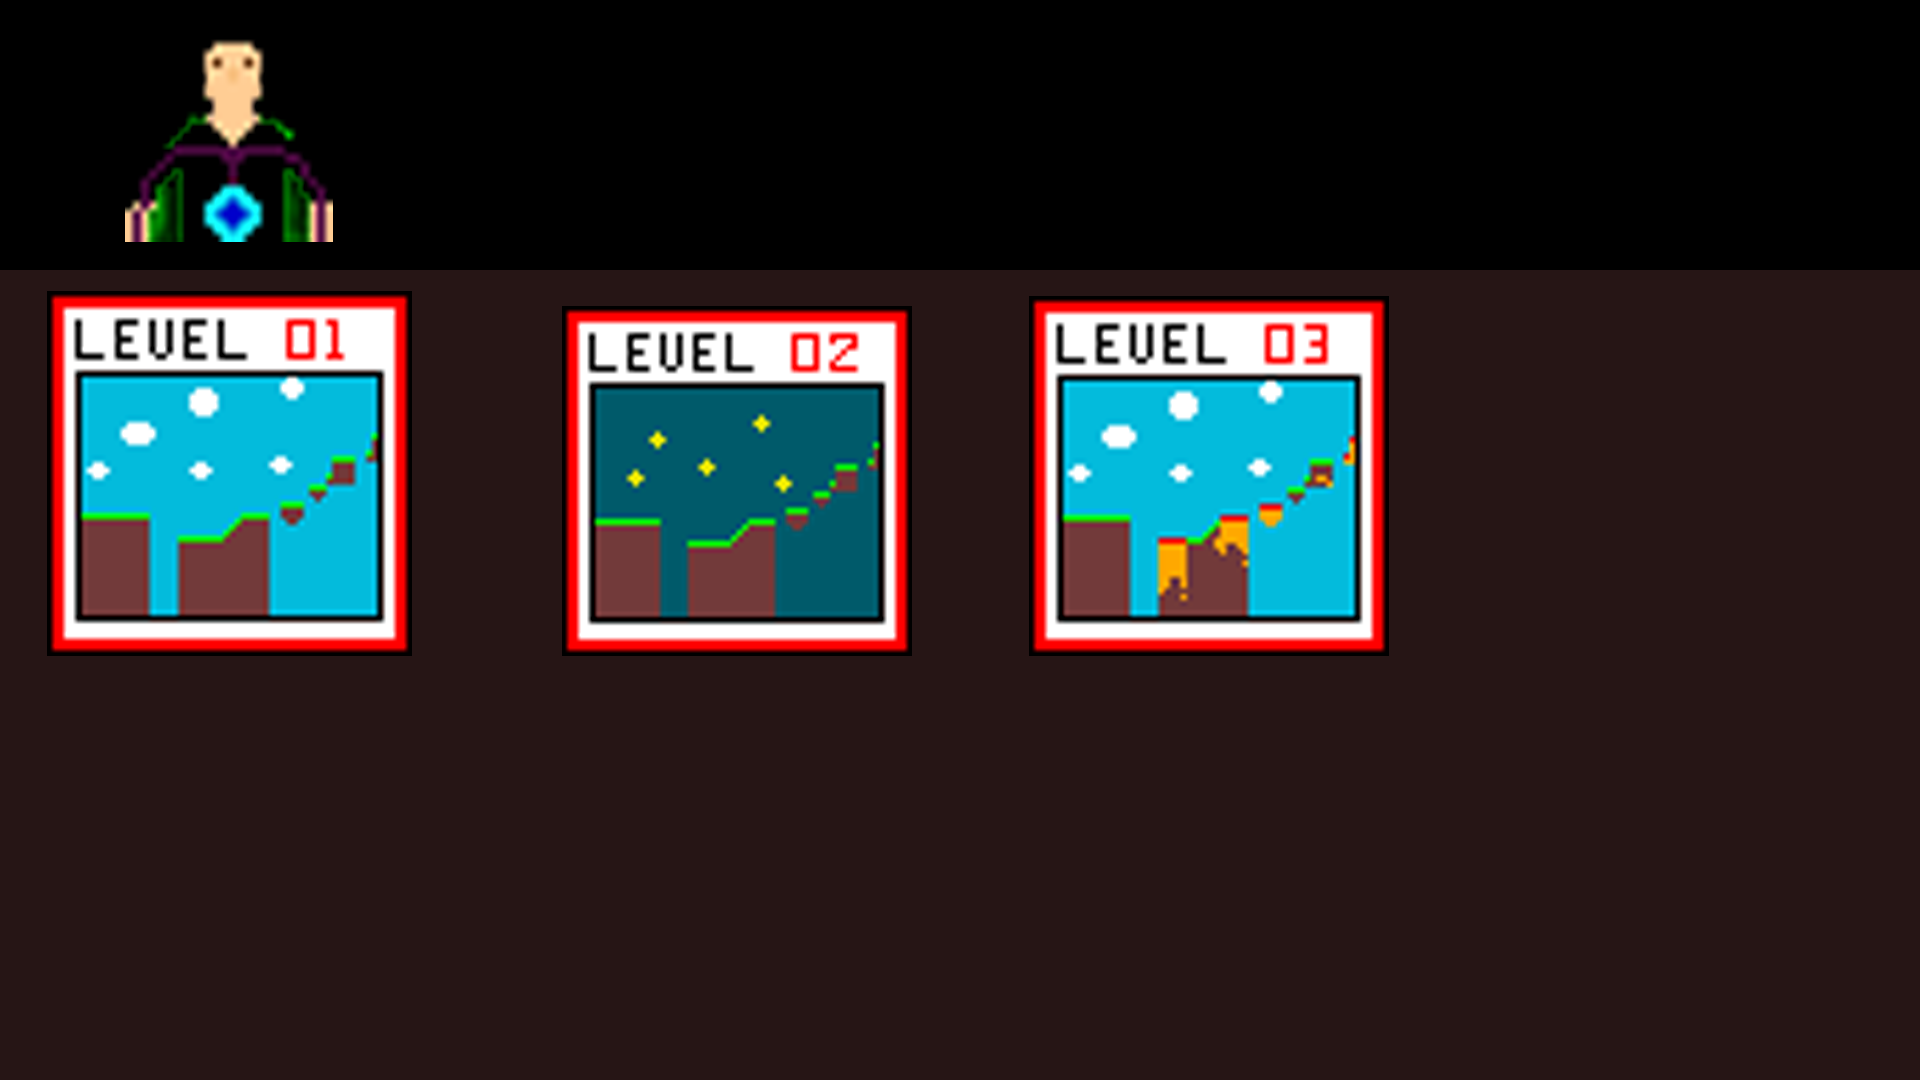
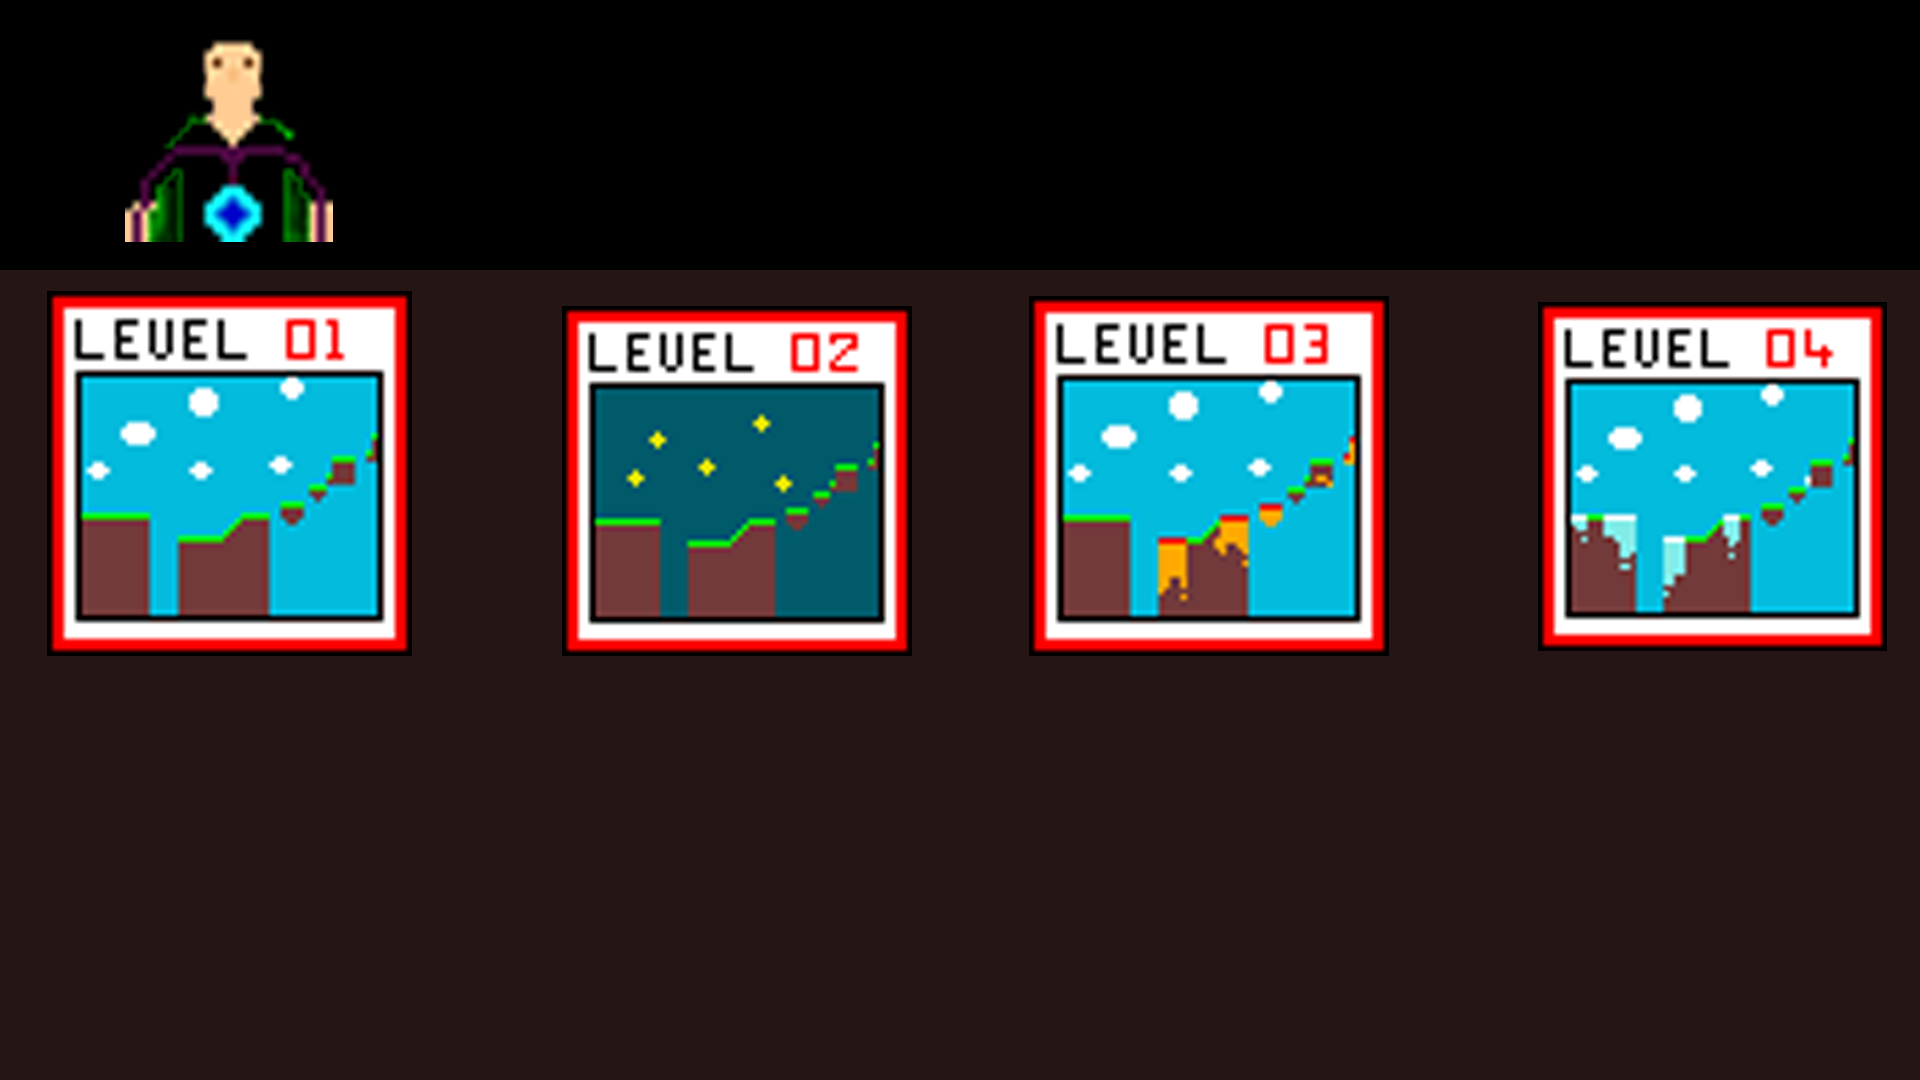
changed character Menu screen

Changed region(s): [[0.7812, 0.275, 1.0, 0.6111]]

diff --git a/IT-Adventures/src/com/it/main/MouseInput.java b/IT-Adventures/src/com/it/main/MouseInput.java
@@ -80,10 +80,10 @@ public class MouseInput implements MouseListener {
 				Rectangle level1 = new Rectangle(Game.WIDTH/4,Game.HEIGHT/4,Game.WIDTH/4,(3*Game.HEIGHT/4)/2);
 				Rectangle level2 = new Rectangle(Game.WIDTH/2,Game.HEIGHT/4,Game.WIDTH/4,(3*Game.HEIGHT/4)/2);
 				Rectangle level3 = new Rectangle(Game.WIDTH / 2 + Game.WIDTH / 4,Game.HEIGHT/4,Game.WIDTH/4,(3*Game.HEIGHT/4)/2);
-				Rectangle level4 = new Rectangle(0,((3*Game.HEIGHT/4)/2)+Game.HEIGHT/4,Game.WIDTH/4,(3*Game.HEIGHT/4)/2);
-				Rectangle level5 = new Rectangle(Game.WIDTH/4,((3*Game.HEIGHT/4)/2)+Game.HEIGHT/4,Game.WIDTH/4,(3*Game.HEIGHT/4)/2);
-				Rectangle level6 = new Rectangle(Game.WIDTH/2,((3*Game.HEIGHT/4)/2)+Game.HEIGHT/4,Game.WIDTH/4,(3*Game.HEIGHT/4)/2);
-				Rectangle level7 = new Rectangle(Game.WIDTH / 2 + Game.WIDTH / 4,((3*Game.HEIGHT/4)/2)+Game.HEIGHT/4,Game.WIDTH/4,(3*Game.HEIGHT/4)/2);
+//				Rectangle level4 = new Rectangle(0,((3*Game.HEIGHT/4)/2)+Game.HEIGHT/4,Game.WIDTH/4,(3*Game.HEIGHT/4)/2);
+//				Rectangle level5 = new Rectangle(Game.WIDTH/4,((3*Game.HEIGHT/4)/2)+Game.HEIGHT/4,Game.WIDTH/4,(3*Game.HEIGHT/4)/2);
+//				Rectangle level6 = new Rectangle(Game.WIDTH/2,((3*Game.HEIGHT/4)/2)+Game.HEIGHT/4,Game.WIDTH/4,(3*Game.HEIGHT/4)/2);
+//				Rectangle level7 = new Rectangle(Game.WIDTH / 2 + Game.WIDTH / 4,((3*Game.HEIGHT/4)/2)+Game.HEIGHT/4,Game.WIDTH/4,(3*Game.HEIGHT/4)/2);
 				if(level0.intersects(mouse)){
 					characterMenu.setSelectedLevel(0);
 				}
@@ -96,18 +96,18 @@ public class MouseInput implements MouseListener {
 				if(level3.intersects(mouse)){
 					characterMenu.setSelectedLevel(3);
 				}
-				if(level4.intersects(mouse)){
-					characterMenu.setSelectedLevel(4);
-				}
-				if(level5.intersects(mouse)){
-					characterMenu.setSelectedLevel(5);
-				}
-				if(level6.intersects(mouse)){
-					characterMenu.setSelectedLevel(6);
-				}
-				if(level7.intersects(mouse)){
-					characterMenu.setSelectedLevel(7);
-				}
+//				if(level4.intersects(mouse)){
+//					characterMenu.setSelectedLevel(4);
+//				}
+//				if(level5.intersects(mouse)){
+//					characterMenu.setSelectedLevel(5);
+//				}
+//				if(level6.intersects(mouse)){
+//					characterMenu.setSelectedLevel(6);
+//				}
+//				if(level7.intersects(mouse)){
+//					characterMenu.setSelectedLevel(7);
+//				}
 			}
 		}
 		else if(Game.State==Game.STATE.Story){

diff --git a/IT-Adventures/src/com/it/main/Animator.java b/IT-Adventures/src/com/it/main/Animator.java
@@ -5,6 +5,7 @@ import java.awt.image.BufferedImage;
 
 /**
  * 
+ * 
  * @author RealTutsGML
  *
  */
